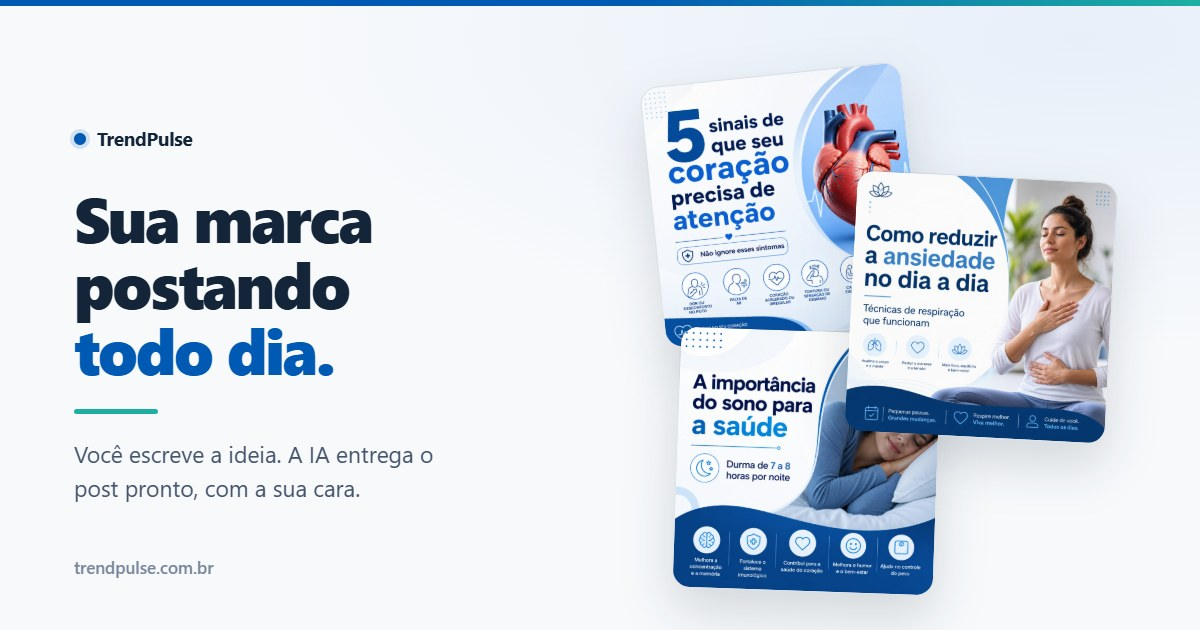
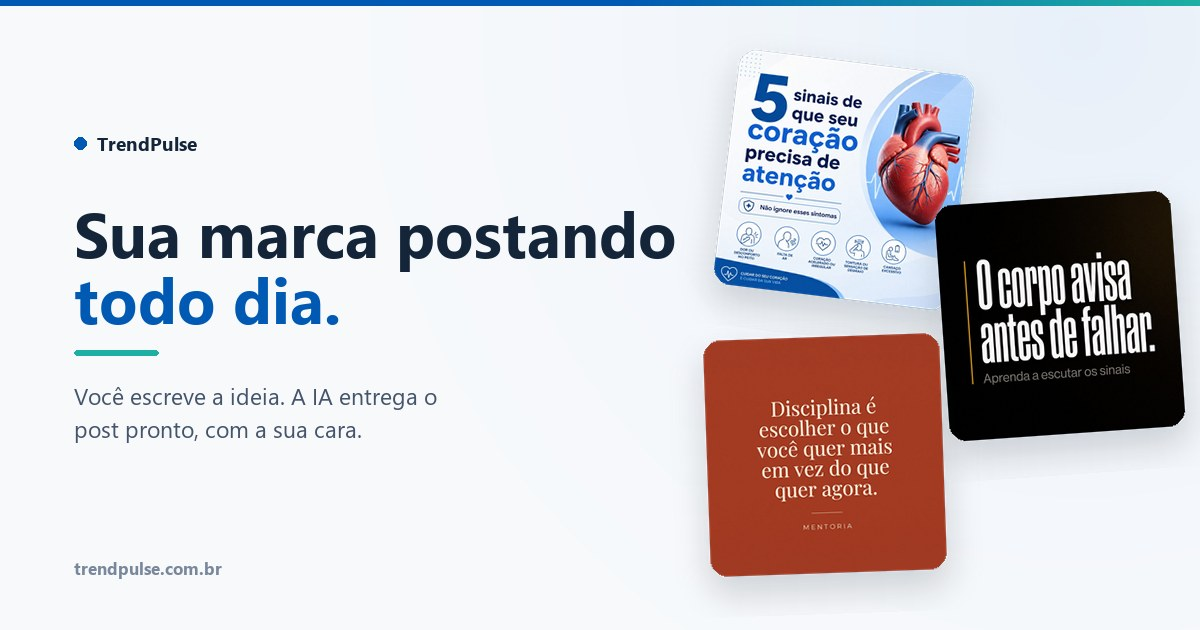
feat(vitrine): tres estilos de verdade no lugar de 16 vezes o mesmo template
As 16 pecas de "Feito com TrendPulse" saiam todas do MESMO molde: onda azul,
fundo branco, pessoa a direita. Enfileiradas num marquee, davam a impressao de
que o produto so sabe fazer uma coisa -- o oposto exato do argumento da secao.

Geradas na propria plataforma, agora que a geracao voltou a funcionar (b69d1d7):

  estilo_dark_editorial  fundo preto, sans condensada gigante, filete ambar
  estilo_citacao_serif   terracota chapado, serifa, zero imagem
  estilo_infografico     off-white com grid, grafico de barras, zero foto

Entram intercaladas, nao no fim: a primeira e a terceira ja sao de estilos
diferentes, entao a variedade aparece antes de a pessoa rolar.

Uma quarta (poster minimalista) nao entrou: estoura o teto de 150s de idle
timeout da edge function, que e um limite SEPARADO do de memoria ja corrigido.
Fica anotado.

OG CARD
Tambem mostrava tres pecas do mesmo molde. Agora mostra os tres estilos
distintos -- o card precisa provar amplitude num olhar so.

A geracao do card virou scripts/build-og.py:
- O HTML que rasterizava no browser foi REMOVIDO. Travava quando o painel nao
  estava compondo frames, e manter HTML + script era ter duas fontes pro mesmo
  artefato -- a mesma duplicata que eu tinha apontado nas duas landings.
- Posicoes agora sao ABSOLUTAS e derivadas de medicao: o headline a 63px tem
  603px, terminando em x=677, entao nenhuma peca comeca antes de x=700. Com
  offset relativo, o texto entrava por cima da primeira peca.

Changed region(s): [[0.0617, 0.0905, 1.0, 0.9651], [0.0617, 0.8746, 0.185, 0.9349], [0.0617, 0.2111, 0.185, 0.2413]]

diff --git a/src/components/landing/TrendPulseLanding.tsx b/src/components/landing/TrendPulseLanding.tsx
@@ -52,13 +52,21 @@ const galleryCard = (g: { src: string; cap: string; pos?: string }) =>
   `<div style="flex:none;width:248px;background:#fbfcfd;border:1px solid rgba(20,37,58,.09);border-radius:16px;overflow:hidden;box-shadow:0 1px 3px rgba(20,37,58,.06)"><img src="${g.src}" alt="Exemplo gerado na plataforma" loading="lazy" style="width:248px;height:248px;object-fit:cover;${g.pos ? `object-position:${g.pos};` : ""}display:block"><div style="padding:13px 14px"><div style="font-size:12.5px;color:#44546B;line-height:1.4;display:-webkit-box;-webkit-line-clamp:2;-webkit-box-orient:vertical;overflow:hidden">${g.cap}</div></div></div>`;
 const GALLERY_HTML = GALLERY.map(galleryCard).join("");
 
-// Seção "Feito com TrendPulse" — 16 posts REAIS gerados na plataforma (gpt-image-2, português
-// impecável). Marquee em sentido inverso ao de #exemplos → efeito de mural de duas fileiras.
+// Seção "Feito com TrendPulse" — posts REAIS gerados na plataforma, em português impecável.
+// Marquee em sentido inverso ao de #exemplos → efeito de mural de duas fileiras.
+//
+// AS TRÊS PRIMEIRAS SÃO DE ESTILOS DIFERENTES DE PROPÓSITO. As 16 originais saíram todas do mesmo
+// template (onda azul, fundo branco, pessoa à direita) — enfileiradas, davam a impressão de que o
+// produto só sabe fazer uma coisa, que é o oposto do argumento. Abrindo com editorial escuro,
+// citação em serifa e infográfico sem foto, a variedade aparece antes de a pessoa rolar.
 const GALLERY_FEITO: { src: string; cap: string }[] = [
+  { src: "/showcase/gerados/estilo_dark_editorial.jpg", cap: "Editorial escuro, tipografia condensada." },
   { src: "/showcase/gerados/exemplo_sinais_coracao.jpg", cap: "5 sinais de que o coração pede atenção." },
+  { src: "/showcase/gerados/estilo_citacao_serif.jpg", cap: "Citação em serifa, sem imagem nenhuma." },
   { src: "/showcase/gerados/exemplo_alimentacao_saudavel.jpg", cap: "Alimentação saudável começa na sua cozinha." },
   { src: "/showcase/gerados/exemplo_hipertensao.jpg", cap: "Hipertensão: o inimigo silencioso." },
   { src: "/showcase/gerados/exemplo_exercicios.jpg", cap: "Por que 30 minutos por dia já mudam tudo." },
+  { src: "/showcase/gerados/estilo_infografico.jpg", cap: "Infográfico de dados, sem foto de banco." },
   { src: "/showcase/gerados/exemplo_ansiedade.jpg", cap: "Técnicas simples para reduzir a ansiedade." },
   { src: "/showcase/gerados/exemplo_sono.jpg", cap: "A importância do sono para a sua saúde." },
   { src: "/showcase/gerados/exemplo_colesterol.jpg", cap: "Colesterol alto tem solução." },

diff --git a/scripts/build-og.py b/scripts/build-og.py
@@ -1,0 +1,125 @@
+"""
+Gera public/og.jpg — o cartão de compartilhamento (1200x630).
+
+POR QUE UM SCRIPT E NÃO UM MODELO DE IMAGEM: texto de card de compartilhamento precisa ser
+pixel-exato. Modelo de difusão erra letra, e este é o ativo mais visto da marca — aparece em todo
+link mandado no WhatsApp, LinkedIn e DM. O que é gerado pela plataforma são as PEÇAS dentro do
+card, que é o que interessa provar.
+
+POR QUE PIL E NÃO HTML: existiu uma versão em HTML pra rasterizar no browser, mas ela foi removida
+por dois motivos. O rasterizador trava quando o painel não está compondo frames, o que tornava a
+regeração imprevisível; e manter HTML + script era ter DUAS fontes pro mesmo artefato, que é o tipo
+de duplicata que sempre diverge. Aqui roda offline, sempre igual, sem browser.
+
+    python scripts/build-og.py
+
+Paleta e tipografia iguais às da landing.
+"""
+import os
+from PIL import Image, ImageDraw, ImageFont
+
+L, A = 1200, 630
+GROUND = (247, 249, 251)
+GROUND_TINT = (231, 239, 249)
+NAVY = (20, 37, 58)
+AZUL = (0, 89, 179)
+SLATE = (68, 84, 107)
+MUTED = (121, 135, 156)
+TEAL = (29, 175, 163)
+
+BOLD = "C:/Windows/Fonts/segoeuib.ttf"
+REG = "C:/Windows/Fonts/segoeui.ttf"
+
+# Três ESTILOS diferentes, não três variações do mesmo template: o card precisa provar amplitude
+# num olhar só. Era o defeito da primeira versão, em que as três eram do mesmo molde de onda azul.
+# Posições ABSOLUTAS na tela de 1200x630. A coluna de texto vai até x=677 (medido: o headline a
+# 63px tem 603px), então nada de peça começa antes de x=700 — a versão anterior usava offset
+# relativo e o headline entrava por cima da primeira peça.
+PECAS = [
+    ("public/showcase/gerados/exemplo_sinais_coracao.jpg", (706, 42), -7),
+    ("public/showcase/gerados/estilo_dark_editorial.jpg", (930, 186), 4),
+    ("public/showcase/gerados/estilo_citacao_serif.jpg", (700, 330), 2),
+]
+LADO = 238
+
+
+def gradiente_de_fundo() -> Image.Image:
+    """Radial claro no canto superior direito — mesmo efeito do CSS da landing."""
+    base = Image.new("RGB", (L, A), GROUND)
+    px = base.load()
+    cx, cy, raio = L * 0.90, A * 0.06, L * 0.72
+    for y in range(A):
+        for x in range(0, L, 2):  # de 2 em 2: o gradiente é suave, ninguém vê a diferença
+            d = min((((x - cx) ** 2 + (y - cy) ** 2) ** 0.5) / raio, 1.0)
+            t = (1 - d) ** 2
+            cor = tuple(round(GROUND[i] + (GROUND_TINT[i] - GROUND[i]) * t) for i in range(3))
+            px[x, y] = cor
+            if x + 1 < L:
+                px[x + 1, y] = cor
+    return base
+
+
+def cartao(caminho: str, angulo: int) -> Image.Image:
+    """Peça com cantos arredondados, borda fina e sombra, rotacionada."""
+    im = Image.open(caminho).convert("RGB").resize((LADO, LADO), Image.LANCZOS)
+
+    mask = Image.new("L", (LADO, LADO), 0)
+    ImageDraw.Draw(mask).rounded_rectangle([0, 0, LADO - 1, LADO - 1], radius=18, fill=255)
+    peca = Image.new("RGBA", (LADO, LADO), (0, 0, 0, 0))
+    peca.paste(im, (0, 0), mask)
+    ImageDraw.Draw(peca).rounded_rectangle(
+        [0, 0, LADO - 1, LADO - 1], radius=18, outline=(20, 37, 58, 28), width=1
+    )
+
+    # Sombra: a própria silhueta desfocada, deslocada pra baixo.
+    from PIL import ImageFilter
+    pad = 40
+    tela = Image.new("RGBA", (LADO + pad * 2, LADO + pad * 2), (0, 0, 0, 0))
+    sombra = Image.new("RGBA", (LADO + pad * 2, LADO + pad * 2), (0, 0, 0, 0))
+    ImageDraw.Draw(sombra).rounded_rectangle(
+        [pad, pad + 16, pad + LADO, pad + LADO + 16], radius=18, fill=(20, 37, 58, 44)
+    )
+    sombra = sombra.filter(ImageFilter.GaussianBlur(16))
+    tela.alpha_composite(sombra)
+    tela.alpha_composite(peca, (pad, pad))
+    return tela.rotate(angulo, resample=Image.BICUBIC, expand=True)
+
+
+def main() -> None:
+    img = gradiente_de_fundo().convert("RGBA")
+    d = ImageDraw.Draw(img)
+
+    # Filete da marca no topo: azul primário virando o teal do accent.
+    for x in range(L):
+        t = max(0.0, (x / L - 0.52) / 0.48)
+        d.line([(x, 0), (x, 5)], fill=tuple(round(AZUL[i] + (TEAL[i] - AZUL[i]) * t) for i in range(3)))
+
+    for caminho, (x, y), ang in PECAS:
+        c = cartao(caminho, ang)
+        img.alpha_composite(c, (x - 40, y - 40))   # -40 compensa o padding da sombra
+
+    f_marca = ImageFont.truetype(BOLD, 19)
+    f_h1 = ImageFont.truetype(BOLD, 63)
+    f_sub = ImageFont.truetype(REG, 23)
+    f_dom = ImageFont.truetype(BOLD, 17)
+
+    d.ellipse([74, 137, 86, 149], fill=AZUL)
+    d.text((97, 130), "TrendPulse", font=f_marca, fill=NAVY)
+
+    d.text((74, 190), "Sua marca postando", font=f_h1, fill=NAVY)
+    d.text((74, 256), "todo dia.", font=f_h1, fill=AZUL)
+
+    d.rounded_rectangle([74, 350, 158, 355], radius=3, fill=TEAL)
+
+    d.text((74, 380), "Você escreve a ideia. A IA entrega o", font=f_sub, fill=SLATE)
+    d.text((74, 413), "post pronto, com a sua cara.", font=f_sub, fill=SLATE)
+
+    d.text((74, 556), "trendpulse.com.br", font=f_dom, fill=MUTED)
+
+    saida = "public/og.jpg"
+    img.convert("RGB").save(saida, "JPEG", quality=88, optimize=True, progressive=True)
+    print(f"{saida}  {Image.open(saida).size}  {os.path.getsize(saida)//1024} KB")
+
+
+if __name__ == "__main__":
+    main()
